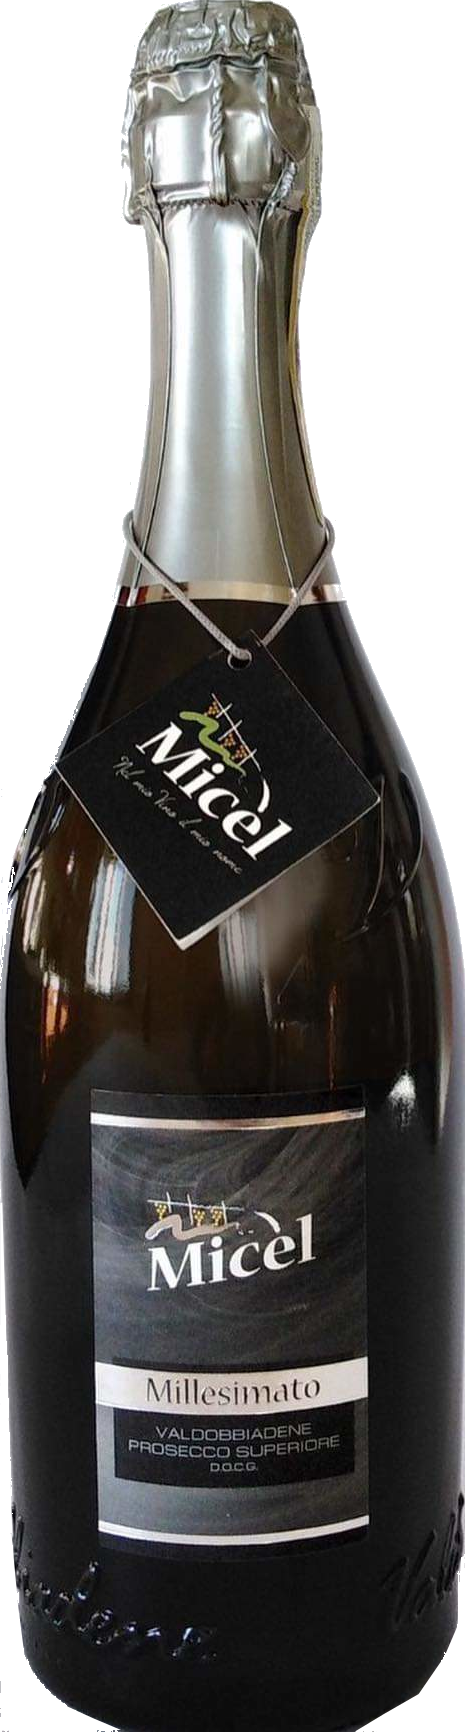
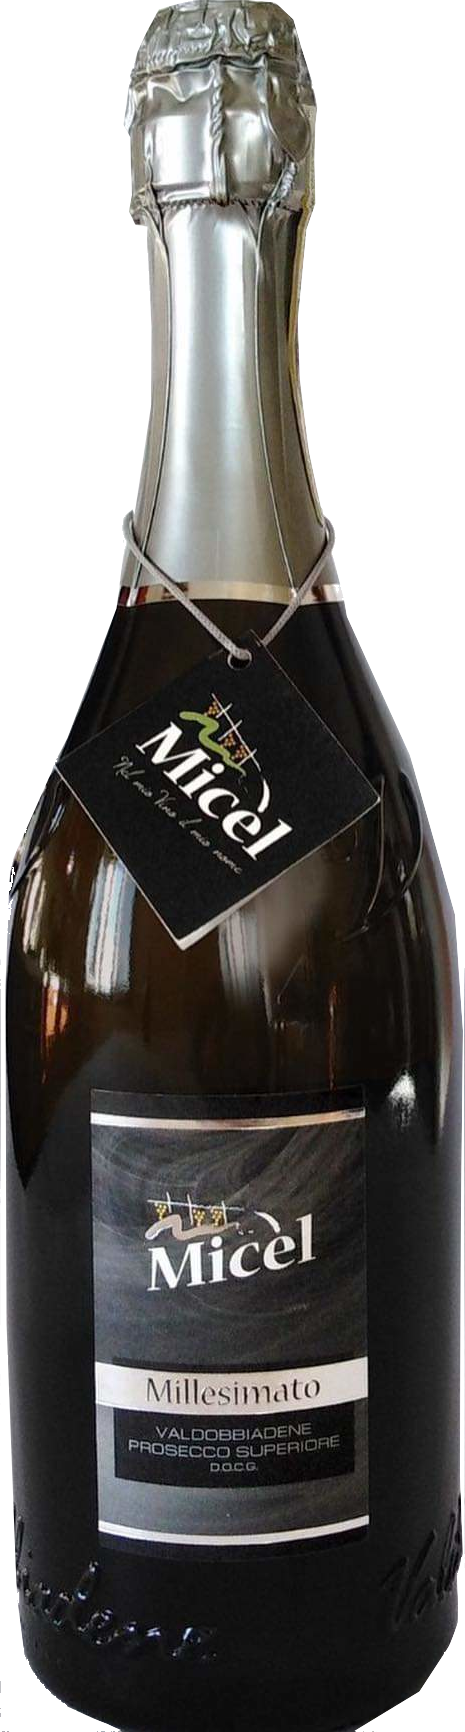
fix images

diff --git a/src/pages/homepage/components/WineList.tsx b/src/pages/homepage/components/WineList.tsx
@@ -29,7 +29,7 @@ const WineListStyle = styled.div.attrs({
 
     .wine-img-container {
       position: relative;
-      background-color: white;
+      background-color: transparent;
       display: flex;
       justify-content: center;
       align-items: center;
